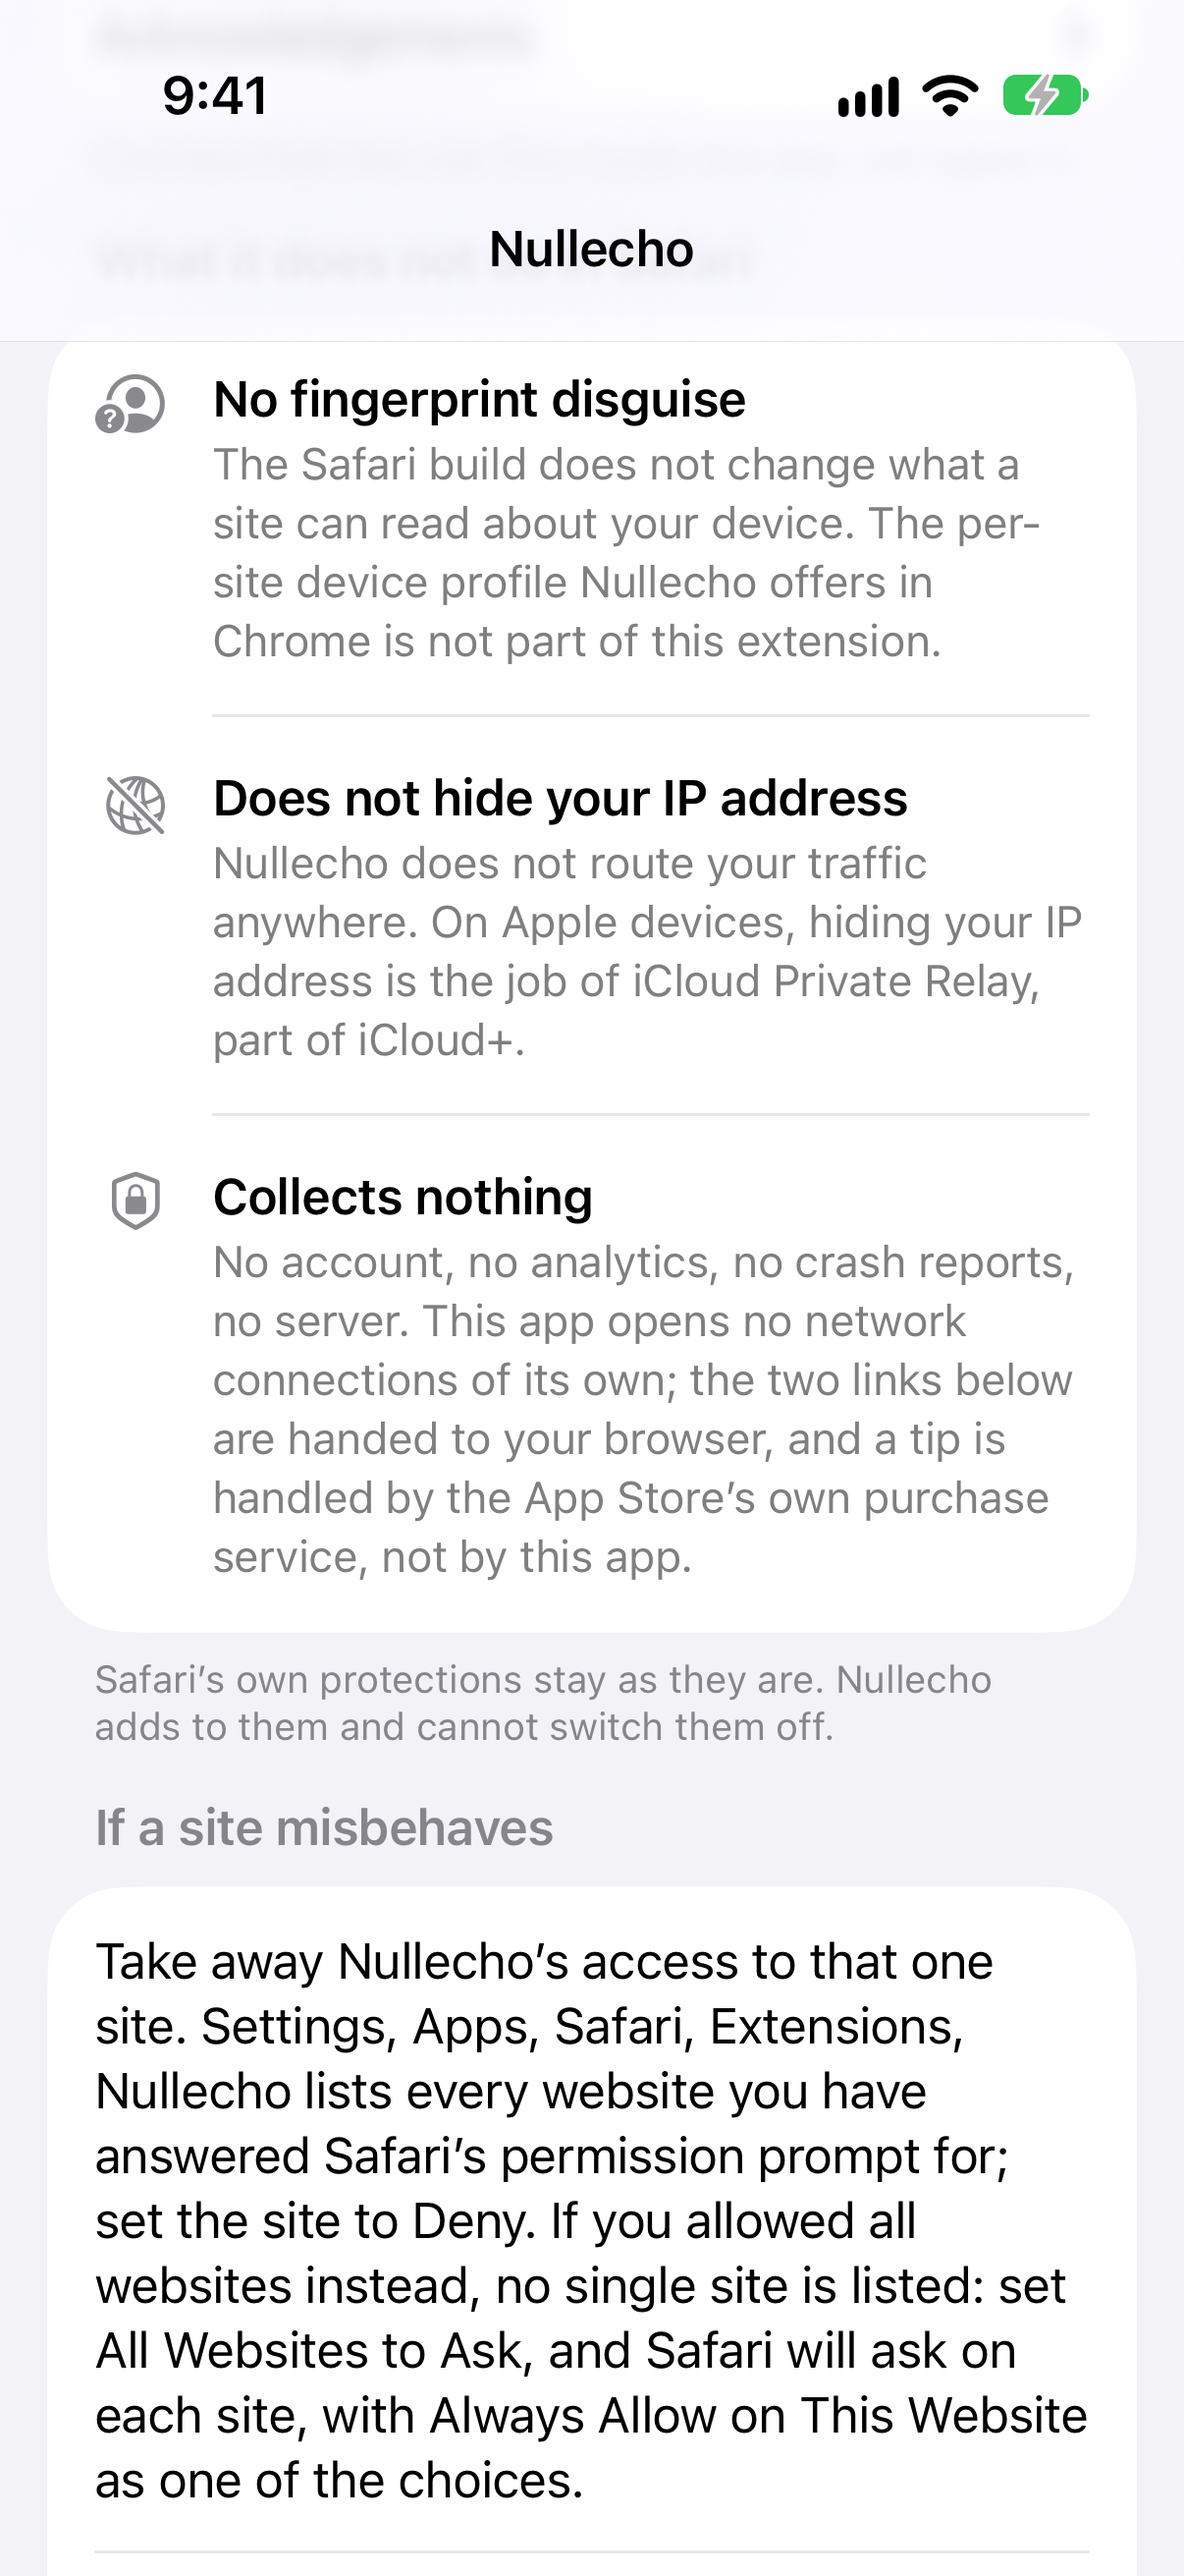
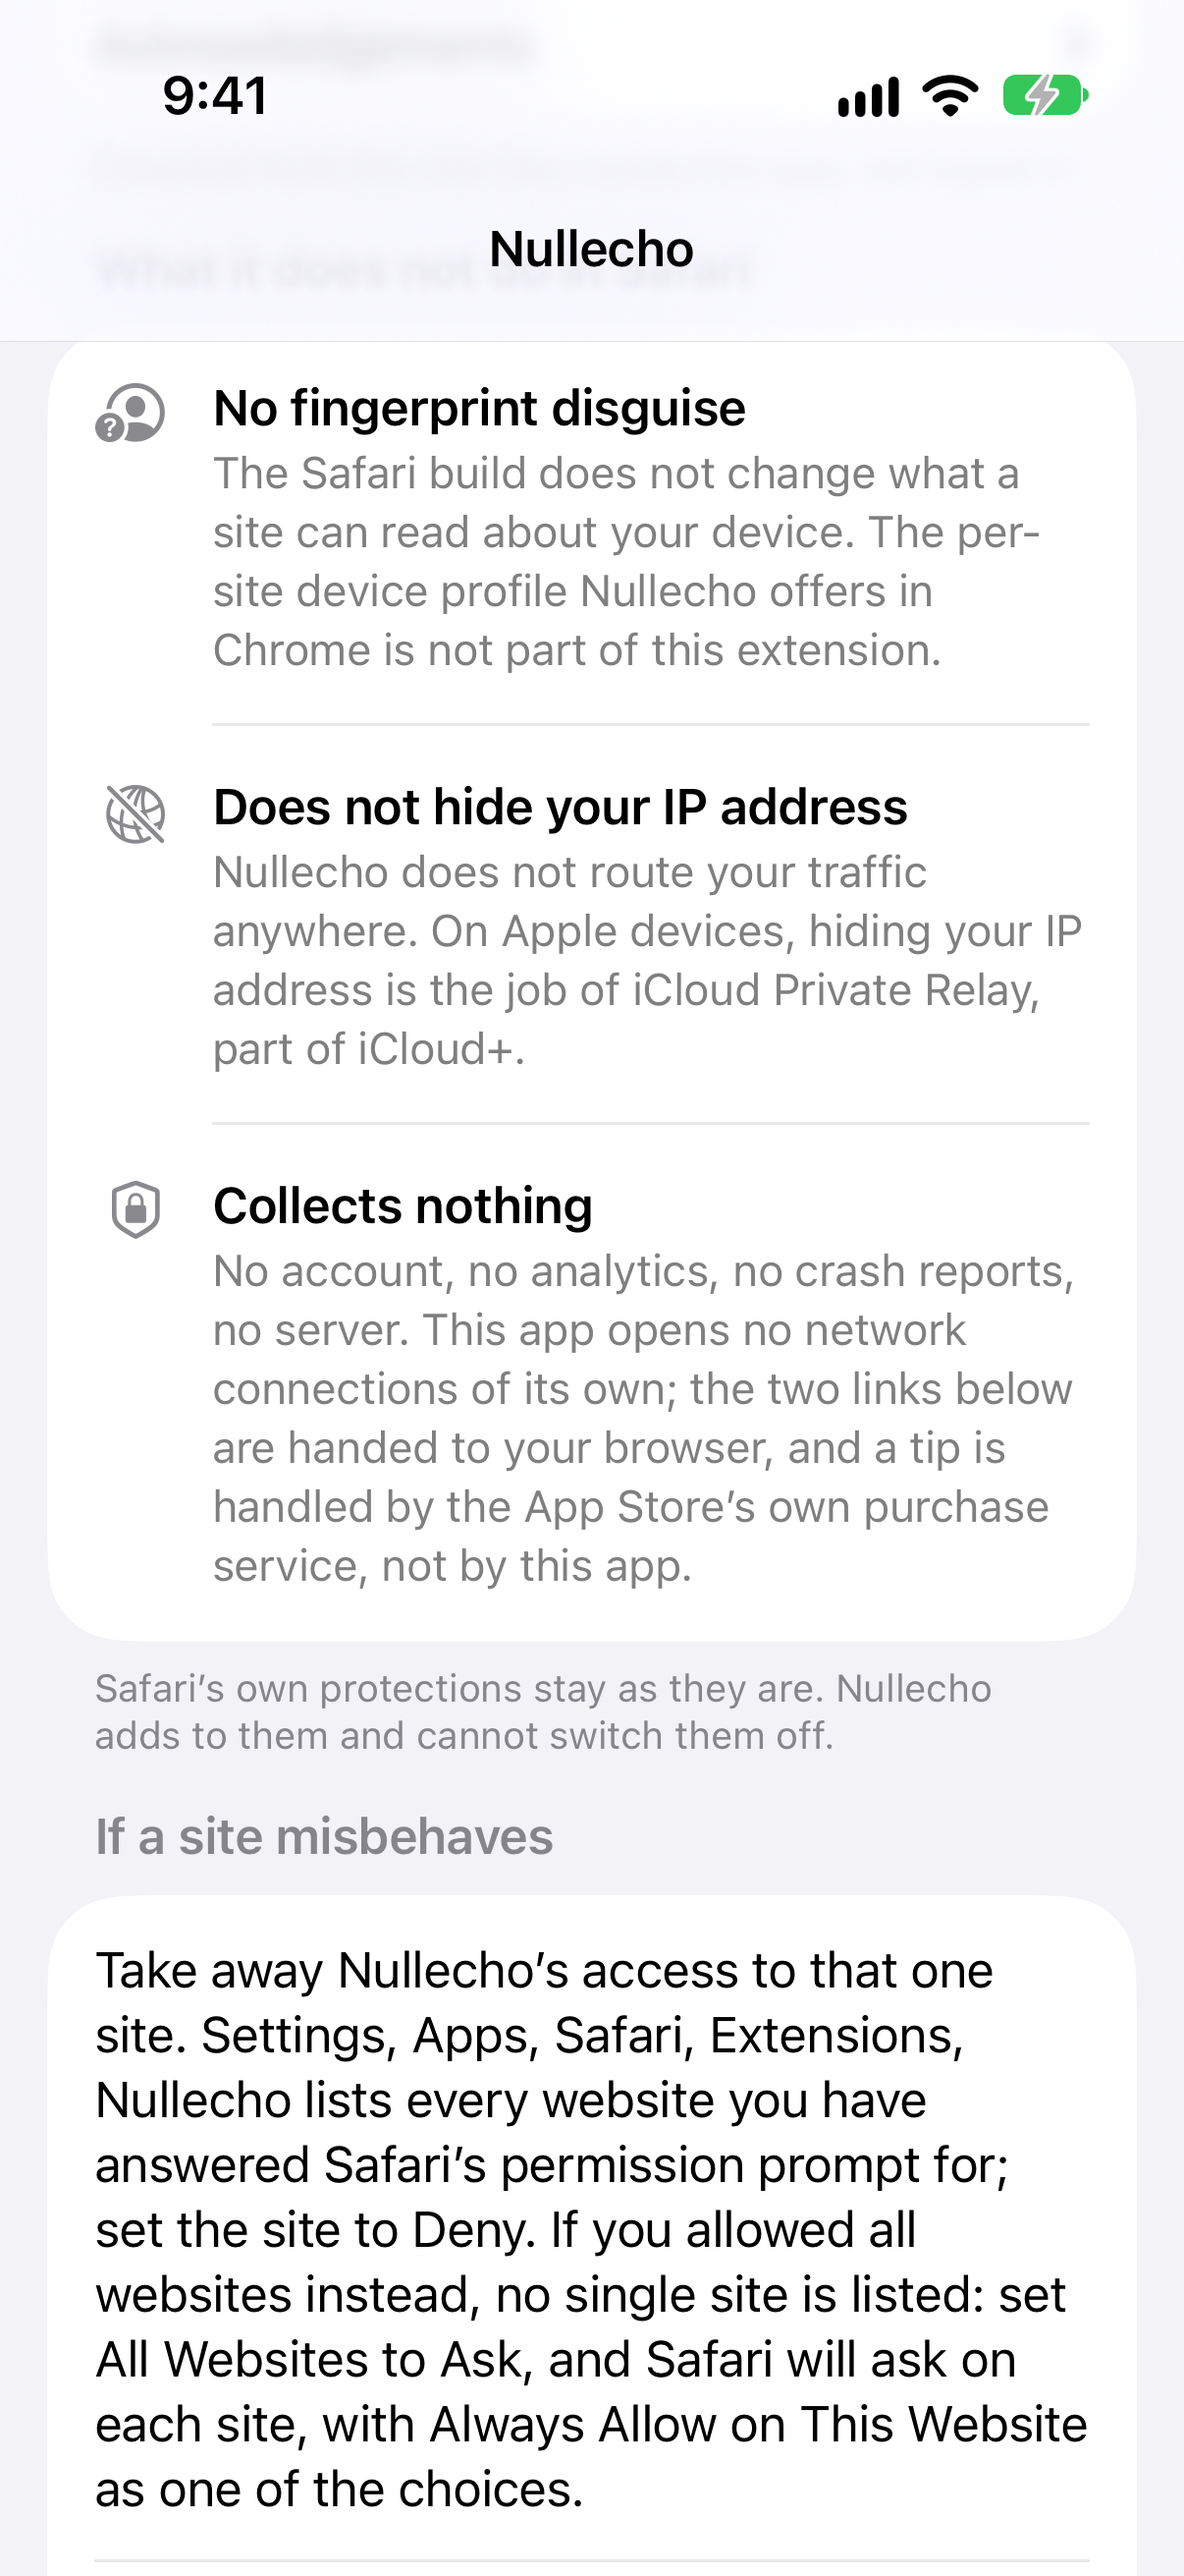
safari: the first Safari release ships as 0.9.3, following the extension
The owner's call (2026-10-31). The 0.9.3 bump (8fcc6d8) changed ext/manifest.json but not
safari/store/listing.json, so safari/test/listing.test.mjs has failed on main since then.

- listing.json versionString 0.9.3; the Mac set's stale note adds that it reads 0.9.2.
- listing.test.mjs: the offline-plan assertion reads the version from ext/manifest.json instead of
  a hard-coded 0.9.2, so it cannot drift again.
- iPhone and iPad shots re-captured from the 0.9.3 build with StoreScreenshotTests, recipe of
  STORE-LISTING §7 (iOS 27.0 24A434, light, 9:41). Only the "Extension version" row changed (and the
  iPad status-bar date); iphone-63-4-support.png came out byte-identical. Still 186 block rules:
  0.9.3's personalization ruleset (D58) is not in the Safari build. STORE-LISTING §10 item 11 says so.
- STORE-LISTING.md: title, §2, the in-app-purchase submission, §7, §10, §11.

diff --git a/safari/STORE-LISTING.md b/safari/STORE-LISTING.md
@@ -1,4 +1,4 @@
-# Nullecho for Safari — App Store listing (version 0.9.2, first Safari release)
+# Nullecho for Safari — App Store listing (version 0.9.3, first Safari release)
 
 Prepared 2026-10-15 for App Store Connect, field by field, in the order App Store Connect asks for them. Every
 limit quoted below was read on Apple's pages on **2026-10-15** (URLs in §0); anything Apple's pages did not
@@ -55,11 +55,12 @@ Things only the owner can decide are marked **OWNER**. Nothing here was entered 
 
 ---
 
-## 2. Version 0.9.2 — App Store page (iOS; the macOS version of the same record reuses every text field)
+## 2. Version 0.9.3 — App Store page (iOS; the macOS version of the same record reuses every text field)
 
-Version string `0.9.2` comes from `ext/manifest.json` through `Scripts/stamp-version.sh`; build number is
-`CURRENT_PROJECT_VERSION` (currently 1). The simulator build the screenshots were taken from still reads
-`0.9.1` in its "Extension version" row (see §7).
+Version string `0.9.3` comes from `ext/manifest.json` through `Scripts/stamp-version.sh`; build number is
+`CURRENT_PROJECT_VERSION` (currently 1). The first Safari release follows the extension's version (owner,
+2026-10-31): it was prepared as 0.9.2, and the extension moved to 0.9.3 before it shipped. The Safari build
+carries the same four block categories as 0.9.2; 0.9.3's personalization ruleset (D58) is Chrome-only (§10).
 
 ### 2.1 Promotional text (165 characters; limit 170)
 
@@ -262,7 +263,7 @@ Per product, also:
   only effect is a one-line thank-you that disappears when the app quits. No account, no server, no restore
   (consumable). See the app's review notes."
 - **Submission**: the first consumable of an app must be submitted with an app version: Monetization ▸
-  In-App Purchases ▸ the item ▸ Add for Review ▸ add to the 0.9.2 submission (`audit/05-tip-jar-rules.md` §3,
+  In-App Purchases ▸ the item ▸ Add for Review ▸ add to the 0.9.3 submission (`audit/05-tip-jar-rules.md` §3,
   step 8). All four should ride with this version so App Review sees the section complete (2.1(b)).
 - No promotional images (the tips are not promoted on the App Store).
 
@@ -309,7 +310,8 @@ listed above, the answer for this app is None / No throughout.
 
 ## 7. Screenshots (`safari/store/`)
 
-All captured 2026-10-15 from the **0.9.2** build, real app, no frames or overlays (Review Guideline 2.3.3), no
+iPhone and iPad shots captured 2026-10-31 from the **0.9.3** build (main e69f6a3); the Mac shot 2026-10-15
+from the 0.9.2 build and marked stale (below). Real app, no frames or overlays (Review Guideline 2.3.3), no
 alpha channel. iPhone and iPad shots are produced by a test in the repo —
 `safari/xcode/UITests/StoreScreenshotTests.swift` (run on its own with `-only-testing`, attachments exported with
 `xcrun xcresulttool export attachments`) — on iOS 27.0 (24A434) simulators in light appearance with the status
@@ -319,7 +321,7 @@ of `TipJarTests/testProductsLoadSortedByPriceWithDisplayPrices` on that simulato
 
 | File | Size | Device / class | Shows |
 |---|---|---|---|
-| `iphone-63-1-top.png` | 1206×2622 | iPhone 17 Pro = "iPhone with Dynamic Island (medium display)", the required iPhone class | Name, description, "Extension version 0.9.2", "Turn it on in Safari" steps |
+| `iphone-63-1-top.png` | 1206×2622 | iPhone 17 Pro = "iPhone with Dynamic Island (medium display)", the required iPhone class | Name, description, "Extension version 0.9.3", "Turn it on in Safari" steps |
 | `iphone-63-2-what-it-does.png` | 1206×2622 | same | "What it does": blocking, GPC, Safari's limits, "186 block rules on" (200 before PR #15's 14 exclusions), the collapsed "Acknowledgements" row |
 | `iphone-63-3-limits.png` | 1206×2622 | same | "What it does not do in Safari" and "Collects nothing" |
 | `iphone-63-4-support.png` | 1206×2622 | same | "If a site misbehaves" and "Support the project" with the four tips at $1.00 / $2.00 / $3.00 / $5.00 |
@@ -337,8 +339,10 @@ The in-app "What it does" text visible in shots 2 no longer names any third-part
 review: the blocking row says the entries were "checked against the published tracker lists credited under
 Acknowledgements below", and a collapsed "Acknowledgements" row follows "Rule lists in this build"); the store
 *text* names none either (director's rule). The sets were re-shot after that change, and again from main 7753ed7 after PR #15's exclusions changed the
-counted row to "186 block rules on" (the app counts the rule files it ships). If the copy or the lists change again,
-re-run the screenshot test.
+counted row to "186 block rules on" (the app counts the rule files it ships), and again on 2026-10-31 from the 0.9.3
+build: only the "Extension version" row changed (the count is still 186, since the Safari build has no personalization
+ruleset), and the iPad status bar shows that day's date. If the copy or the lists change again, re-run the
+screenshot test.
 
 ## 8. Notes for App Review (2443 characters, 2447 bytes with the optional paragraph; limit 4000 bytes)
 
@@ -406,9 +410,13 @@ Phrases checked as absent from every field (script run on the final strings): "p
    Store Connect offers it for this record (platform availability unverified).
 7. **September 2026 age-rating changes**: not found on Apple's pages; the live questionnaire dates from
    January 31, 2026.
-8. ~~Screenshot source build reads 0.9.1~~ — re-shot from the 0.9.2 build 2026-10-15 (§7). The Mac shot is dark and shows the extension off (the build machine's real state); a light one needs the owner's appearance setting.
+8. ~~Screenshot source build reads 0.9.1~~ — re-shot from the 0.9.2 build 2026-10-15, and the iPhone and iPad sets again from the 0.9.3 build 2026-10-31 (§7). The Mac shot still reads 0.9.2 and is marked stale (§11). The Mac shot is dark and shows the extension off (the build machine's real state); a light one needs the owner's appearance setting.
 9. **Support URL contact information**: Apple wants real contact details reachable from the support page.
 10. **Required iPhone screenshot class** is the medium display (1206×2622); that set is provided. No large-display set.
+11. **Personalization ruleset is Chrome-only.** 0.9.3 added it to Chrome (D58, which ships nothing in that category
+    without the shopping lab); `safari/tools/safari-rules.mjs` was not changed, so Safari 0.9.3 blocks the same four
+    categories as 0.9.2. Adding it to Safari needs the shopping lab on Safari first. The store text promises no
+    category list, so nothing in this listing is wrong either way.
 
 ---
 
@@ -430,7 +438,7 @@ run `--apply` until `GET /v1/apps` finds `org.nullecho.app`, i.e. after the owne
 it never creates the record, the in-app purchases or the agreements.
 
 What `--apply` does, in order: content rights (`USES_THIRD_PARTY_CONTENT`); categories on the in-flight app info;
-subtitle + privacy-policy URL; per platform (IOS, MAC_OS) the version (0.9.2, MANUAL, copyright), its en-US text
+subtitle + privacy-policy URL; per platform (IOS, MAC_OS) the version (0.9.3, MANUAL, copyright), its en-US text
 (description, keywords, promotional text, support and marketing URLs; What's New omitted on a first version), the
 age-rating declaration (§6; attributes the API does not know are dropped on its word and reported), the review
 details (§8 notes, `demoAccountRequired: false`, contact from the environment if present), and the screenshot sets
